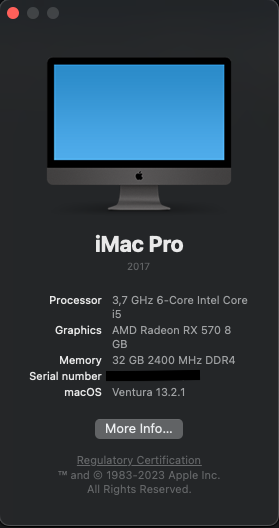
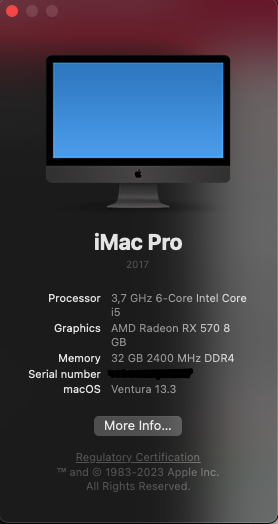
Specs updated

diff --git a/README.md b/README.md
@@ -4,7 +4,7 @@
 
 **SMBIOS: iMacPro1,1**
 <br>
-**Latest working macOS**: Ventura 13.2.1
+**Latest working macOS**: Ventura 13.3
 <br>
 **Current OpenCore**: 0.9.0
 
@@ -13,7 +13,7 @@
 - Asus Prime H310M-E R2.0/BR
 - RX 580 2048SP (VBIOS Sapphire.RX570.8192.191031)
 - 2x 16Gb DDR4 2400Mhz Hyperx with XMP Disabled
-- Wifi/BT AXE3000(AX210) - NOT WORKING ON VENTURA
+- FV-A436CD Wireless Card
 
 ## What works
 - macOS Catalina, macOS Big Sur, macOS Monterey and macOS Ventura
@@ -23,9 +23,12 @@
 - Temperature monitoring for everything
 - DRM content (Netflix, AppleTV, etc)
 - Shutdown/Reboot/Update to newer macOS builds over time
+- AirDrop
+- Wifi
+- Bluetooth
 
 ## What doesn't work/Bugs
-- Sometimes the operating system freezes and restarts
+- Everything working so far
 
 ## Kexts used:
 - AppleALC.kext
@@ -40,7 +43,7 @@
 - WhateverGreen.kext
 
 ## Keep in mind:
-- Don't forget to set to dGPU (PCIe) instead of iGPU (Primary Display CPU) in your BIOS settings if you intend to use this alongside the dedicated graphics card (dGPU).  
+- Don't forget to set to dGPU (PCIe) instead of iGPU (Primary Display CPU) and also to disable iGPU Multi-Monitor in your BIOS settings if you intend to use this alongside the dedicated graphics card (dGPU).  
 
 ## Thanks/Credits
 - [Opencore Team](https://dortania.github.io/getting-started/)
